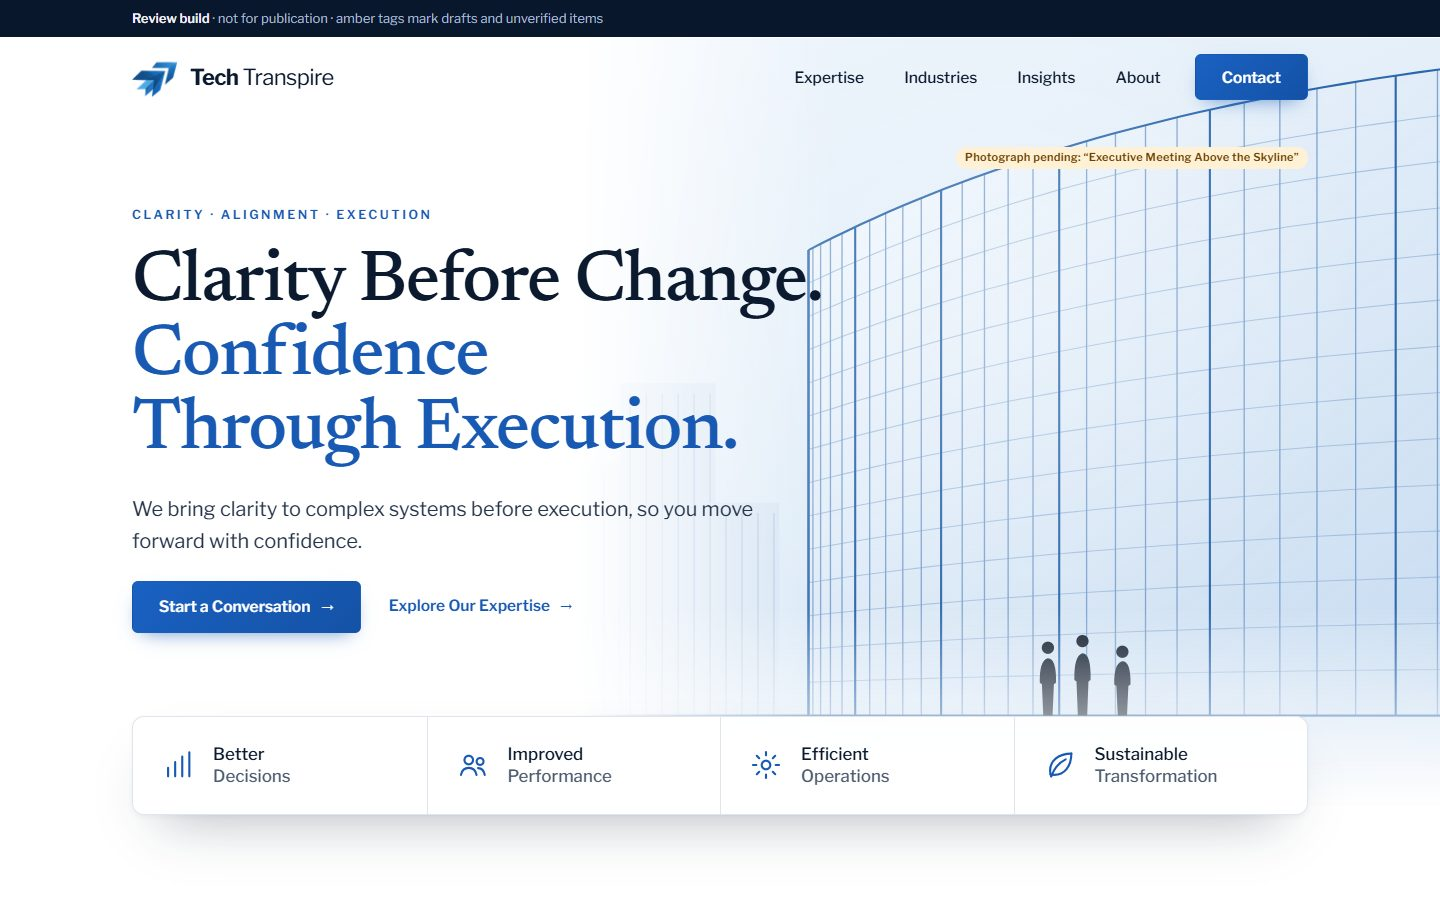
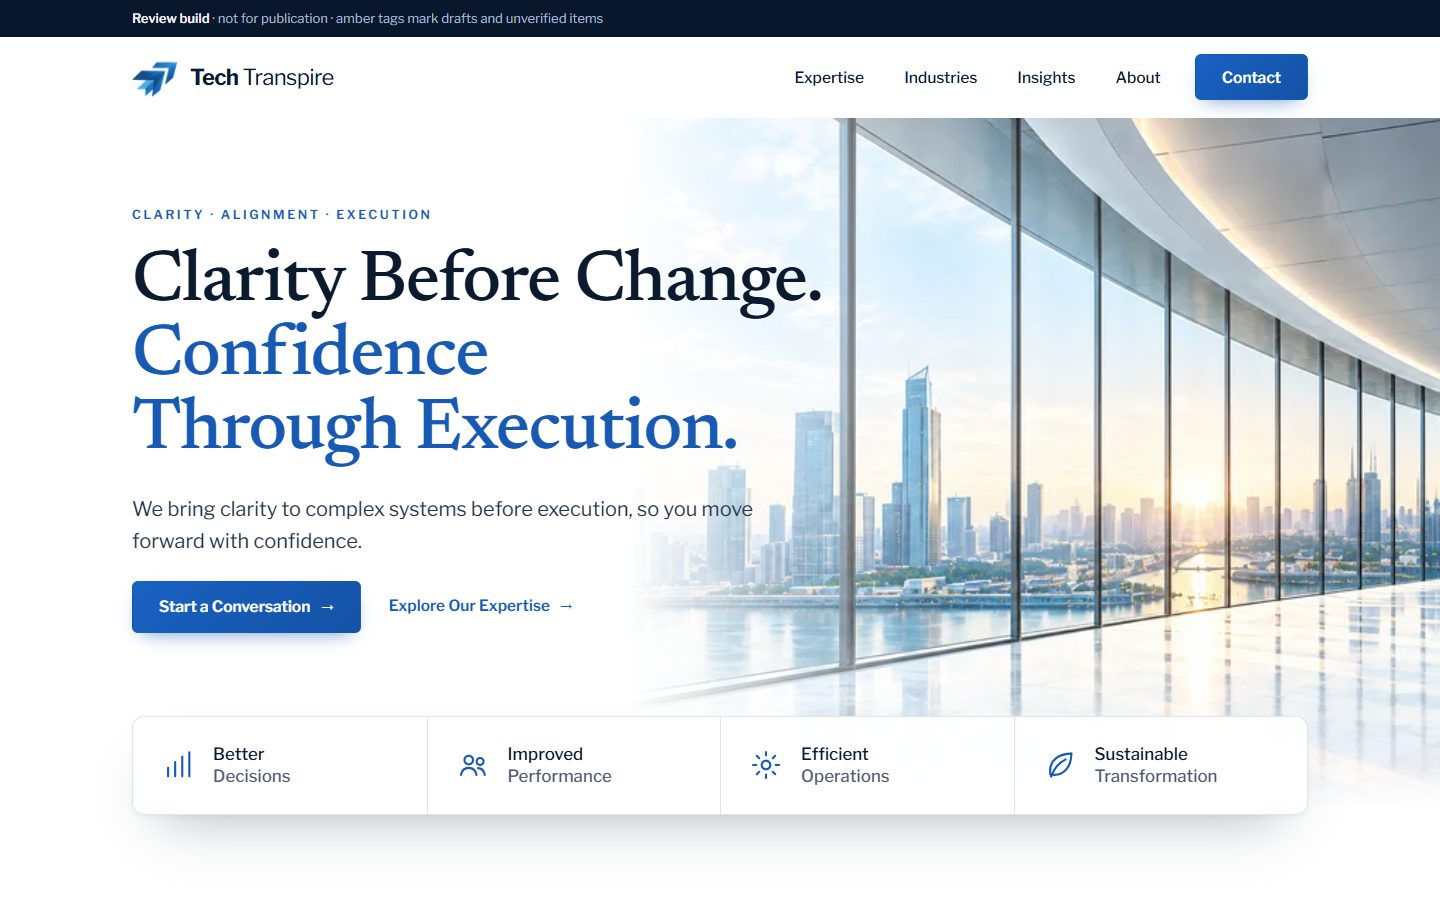
Add hero photograph and refine the first fold
- Home hero now uses the supplied architectural photograph
  (docs/phase-2-design/assets/hero-glass-office-skyline.png,
  TT-AS-024; usage rights still to confirm) with corrected alt text.
- Solid white header over the hero (photo starts below it, as in the
  reference); photo reaches the right edge (parallax overscan was
  capped by the global img max-width); longer, softer fade so the
  headline and paragraph stay readable.
- Mobile: removed the empty band above the photo. Tablet: Contact
  button sits beside the Menu button.
- Home screenshots regenerated; validate and browser QA (42/42) pass.

diff --git a/site/src/styles/global.css b/site/src/styles/global.css
@@ -138,7 +138,7 @@ p { text-wrap: pretty; }
    Header and navigation
    ========================================================================= */
 .site-header { position: sticky; top: env(safe-area-inset-top, 0px); z-index: 60; background: rgba(255, 255, 255, .86); -webkit-backdrop-filter: saturate(160%) blur(14px); backdrop-filter: saturate(160%) blur(14px); border-bottom: 1px solid transparent; transition: background-color var(--t-card) var(--ease-out), border-color var(--t-card), box-shadow var(--t-card); }
-.has-hero-header .site-header:not(.is-scrolled) { background: rgba(255, 255, 255, 0); -webkit-backdrop-filter: none; backdrop-filter: none; }
+.has-hero-header .site-header:not(.is-scrolled) { background: #fff; -webkit-backdrop-filter: none; backdrop-filter: none; }
 .site-header.is-scrolled { background: rgba(255, 255, 255, .94); border-bottom-color: var(--line); box-shadow: 0 8px 24px -20px rgba(11, 26, 47, .45); }
 .hdr { display: flex; align-items: center; gap: 34px; min-height: var(--header-h); transition: min-height var(--t-card) var(--ease-out); }
 .is-scrolled .hdr { min-height: 68px; }
@@ -171,7 +171,7 @@ p { text-wrap: pretty; }
 .mobile-nav a { display: flex; justify-content: space-between; padding: 15px 0; border-bottom: 1px solid var(--line); color: var(--ink); text-decoration: none; font: 500 1.3rem/1.2 var(--f-display); }
 .mobile-nav a[aria-current] { color: var(--blue); }
 .has-hero-header .site-header:has(.mobile-nav.is-open) { background: #fff; }
-@media (max-width: 939px) { .nav { display: none; } .menu-btn { display: inline-flex; } .hdr { gap: 16px; } }
+@media (max-width: 939px) { .nav { display: none; } .menu-btn { display: inline-flex; margin-left: 0; } .hdr-cta { margin-left: auto; } .hdr { gap: 12px; } }
 @media (min-width: 940px) { .mobile-nav { display: none !important; } }
 @media (max-width: 519px) { .hdr-cta { display: none; } .wordmark { font-size: 19px; } .brand img { width: 38px; height: 38px; } }
 
@@ -179,8 +179,8 @@ p { text-wrap: pretty; }
    Hero (Home) — reference composition: copy left, architecture right, outcome row
    ========================================================================= */
 .hero { position: relative; isolation: isolate; background: var(--paper); margin-top: calc(-1 * var(--header-h)); padding-top: var(--header-h); overflow: hidden; }
-.hero-media { position: absolute; top: 0; right: 0; bottom: 0; width: 60%; z-index: -1; -webkit-mask-image: linear-gradient(90deg, transparent 0%, #000 30%); mask-image: linear-gradient(90deg, transparent 0%, #000 30%); animation: hero-media 1100ms var(--ease-emph) 200ms both; }
-.hero-media > img, .hero-media > .media-fallback { position: absolute; inset: -14px; width: calc(100% + 28px); height: calc(100% + 28px); object-fit: cover; object-position: 60% 50%; transform: translate3d(calc(var(--px, 0) * -14px), calc(var(--py, 0) * -10px), 0); transition: transform 600ms var(--ease-out); }
+.hero-media { position: absolute; top: var(--header-h); right: 0; bottom: 0; width: 60%; z-index: -1; overflow: hidden; -webkit-mask-image: linear-gradient(90deg, transparent 0%, transparent 6%, rgba(0, 0, 0, .55) 26%, #000 46%); mask-image: linear-gradient(90deg, transparent 0%, transparent 6%, rgba(0, 0, 0, .55) 26%, #000 46%); animation: hero-media 1100ms var(--ease-emph) 200ms both; }
+.hero-media > img, .hero-media > .media-fallback { position: absolute; inset: -14px; width: calc(100% + 28px); max-width: none; height: calc(100% + 28px); object-fit: cover; object-position: 62% 50%; transform: translate3d(calc(var(--px, 0) * -14px), calc(var(--py, 0) * -10px), 0); transition: transform 600ms var(--ease-out); }
 .hero-light { position: absolute; inset: 0; z-index: -1; pointer-events: none; background: radial-gradient(600px circle at calc(70% + var(--px, 0) * 20%) calc(35% + var(--py, 0) * 20%), rgba(255, 255, 255, .28), transparent 60%); }
 .hero-media::after { content: ''; position: absolute; left: 0; right: 0; bottom: 0; height: 26%; background: linear-gradient(180deg, rgba(255, 255, 255, 0), #fff); }
 .hero-inner { position: relative; display: grid; grid-template-columns: minmax(0, 1fr); align-content: center; min-height: clamp(560px, calc(100vh - 210px), 700px); padding-block: 40px 128px; }
@@ -211,7 +211,7 @@ p { text-wrap: pretty; }
 @media (max-width: 899px) {
   .hero { margin-top: 0; padding-top: 0; }
   .hero-inner { min-height: 0; padding-block: 32px 20px; }
-  .hero-media { position: relative; width: auto; height: clamp(240px, 62vw, 420px); margin: 0 calc(-1 * var(--gutter-r)) 0 calc(-1 * var(--gutter)); -webkit-mask-image: none; mask-image: none; }
+  .hero-media { position: relative; top: auto; width: auto; height: clamp(240px, 62vw, 420px); margin: 0 calc(-1 * var(--gutter-r)) 0 calc(-1 * var(--gutter)); -webkit-mask-image: none; mask-image: none; }
   .hero-media::after { height: 40%; }
   .hero-light { display: none; }
   .hero-caption { position: static; margin-top: 10px; }

diff --git a/HANDOFF.md b/HANDOFF.md
@@ -84,7 +84,7 @@ D-01 brand statement · D-02 signature offer · D-03 no AI page · D-04 pre-foun
 
 ## 7. Outstanding approvals and inputs (owner: company)
 
-1. **Photography:** save `Executive Meeting Above the Skyline.png`, `Executive Lounge Meeting Overlooking the City.png` and `Mack Akhani.png` to `docs/phase-2-design/assets/`; confirm rights.
+1. **Photography:** the **hero photo is in place** (`hero-glass-office-skyline.png`, supplied 2026-10-29; confirm its rights, TT-AS-024). Still wanted in `docs/phase-2-design/assets/`: `Executive Lounge Meeting Overlooking the City.png` (closing band) and `Mack Akhani.png` (portrait). Note: the dev server must be restarted after adding files there.
 2. **Claims ([19](docs/website-architecture/19-article-claims-report.md)):** verify, or approve omissions, to release articles. Fastest path: the 005/010 engagement (C-05) and the 001/002 engagement figures; omissions for 001 (B08), 009 (stats + tag + heading), 010 (stats + sentence).
 3. **Launch-blocking wording:** H-01 "three times…" · C-15 "6-8 weeks" / "2 to 6 weeks" · C-17 "1 business day".
 4. **New copy:** N-02 theme lines and the "What we help you achieve" heading · "Selected Experience" intro line · N-04 labels and sentence · N-05 Healthcare · N-06 · N-13 · N-14 · N-16 · N-17 · small UI labels ("A good fit", "Already under way?", "Recovery in practice", concept-graphic labels such as "Stalled" / "Back on a defined path").

diff --git a/docs/phase-2-design/assets/README.md b/docs/phase-2-design/assets/README.md
@@ -2,11 +2,17 @@
 
 Put company-owned or properly licensed photography here, **keeping the original filenames**. The site picks the files up automatically at build time and removes the "pending" placeholders.
 
-## Requested files
+## In use
+
+| File | Supplied | Used for | Rights |
+|---|---|---|---|
+| `hero-glass-office-skyline.png` (1672×941) | By the company in chat, 2026-10-29 | **Home hero** (any filename containing "skyline" is used) | **Unconfirmed**: confirm ownership or licence before production (`assets.csv` TT-AS-024) |
+
+## Still requested
 
 | File (exact name) | Drive location | Drive ID | Used for |
 |---|---|---|---|
-| `Executive Meeting Above the Skyline.png` | 202610 Tech Transpire Re-Write non image content | `1Ja0WokRhMG60uzJjqp3AQ3M7YKXGjxg7` | Home hero (Concept 06) |
+| `Executive Meeting Above the Skyline.png` | 202610 Tech Transpire Re-Write non image content | `1Ja0WokRhMG60uzJjqp3AQ3M7YKXGjxg7` | Optional now (the hero has a photo). If added, remove or rename the current hero file so only one "skyline" image remains |
 | `Executive Lounge Meeting Overlooking the City.png` | same folder | `1f_xVQoIMsF3IwZbTGYN92nEjEvFc-sqo` | Home closing conversation band |
 | `Mack Akhani.png` | ALL SITES Website Images / HEADSHOTS | `1x9fw65o2ubCacv250FqkZs1TvyV12HOJ` | Home "Built from experience" and About profile |
 
